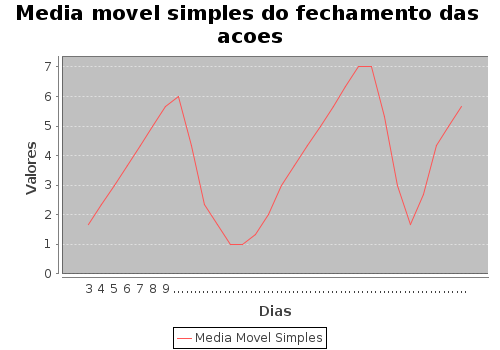
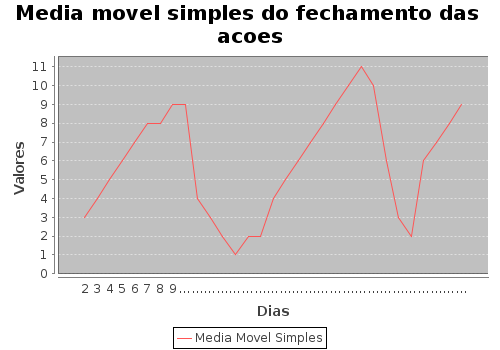
Gera Interface com abas, tabela e gráficos

diff --git a/src/main/java/br/com/caelum/argentum/ui/ArgentumUI.java b/src/main/java/br/com/caelum/argentum/ui/ArgentumUI.java
@@ -13,11 +13,18 @@ import javax.swing.JFrame;
 import javax.swing.JLabel;
 import javax.swing.JPanel;
 import javax.swing.JScrollPane;
+import javax.swing.JTabbedPane;
 import javax.swing.JTable;
 import javax.swing.SwingConstants;
 import javax.swing.border.LineBorder;
 
+import br.com.caelum.argentum.Candle;
+import br.com.caelum.argentum.CandlestickFacktory;
 import br.com.caelum.argentum.Negocio;
+import br.com.caelum.argentum.SerieTemporal;
+import br.com.caelum.argentum.grafico.GeradorDeGrafico;
+import br.com.caelum.argentum.indicadores.IndicadorFechamento;
+import br.com.caelum.argentum.indicadores.MediaMovelSimples;
 
 public class ArgentumUI {
 
@@ -25,6 +32,7 @@ public class ArgentumUI {
 	private JPanel painelPrincipal;
 	private JTable tabela;
 	private JPanel painelBotoes;
+	private JTabbedPane abas;
 
 	public static void main(String[] args) {
 
@@ -35,6 +43,7 @@ public class ArgentumUI {
 		montaJanela();
 		montaPainelPrincipal();
 		montaTitulo();
+		montaAbas();
 		montaTabelaComScroll();
 		montaPainelBotoes();
 		montaBotaoCarregar();
@@ -42,6 +51,13 @@ public class ArgentumUI {
 		mostraJanela();
 	}
 
+	private void montaAbas(){
+		abas = new JTabbedPane();
+		abas.addTab("Tabela de Negócios", null);
+		abas.addTab("Gráfico", null);
+		painelPrincipal.add(abas);
+	}
+	
 	private void montaPainelBotoes() {
 		painelBotoes = new JPanel(new GridLayout());
 		painelPrincipal.add(painelBotoes, BorderLayout.SOUTH);
@@ -79,9 +95,12 @@ public class ArgentumUI {
 		botaoCarregar.addActionListener(new ActionListener(){
 
 			public void actionPerformed(ActionEvent e) {
-				List<Negocio> negocios = new EscolheXML().escolher();
-				NegociosTableModel ntm = new NegociosTableModel(negocios);
-				tabela.setModel(ntm);
+//				ANTES
+//				List<Negocio> negocios = new EscolheXML().escolher();
+//				NegociosTableModel ntm = new NegociosTableModel(negocios);
+//				tabela.setModel(ntm);
+//				DEPOIS
+				carregarDados();
 			}
 		});
 		painelBotoes.add(botaoCarregar);
@@ -115,6 +134,29 @@ public class ArgentumUI {
 		scroll.getViewport().add(tabela);
 		scroll.setSize(450, 450);
 
-		painelPrincipal.add(scroll, BorderLayout.CENTER);
+//		retirado
+//		painelPrincipal.add(scroll, BorderLayout.CENTER);
+//		adicionado
+		abas.setComponentAt(0, scroll);
+	}
+	
+	private void carregarDados(){
+		List<Negocio> negocios = new EscolheXML().escolher();
+		
+		//atualizaTabela
+		NegociosTableModel ntm = new NegociosTableModel(negocios);
+		this.tabela.setModel(ntm);
+		
+		//geraSerieTemporal
+		CandlestickFacktory candlestickFacktory = new CandlestickFacktory();
+		List<Candle> candles = candlestickFacktory.constroiCandles(negocios);
+		SerieTemporal serie = new SerieTemporal(candles);
+		
+		//mostraGrafico
+		GeradorDeGrafico geradorDeGrafico = new GeradorDeGrafico(serie, 2, serie.getTotal()-1);
+		geradorDeGrafico.criaGrafico("Média Móvel Simples");
+		geradorDeGrafico.plotaIndicador(new MediaMovelSimples(new IndicadorFechamento()));
+		JPanel grafico = geradorDeGrafico.getPanel();
+		this.abas.setComponentAt(1, grafico);
 	}
 }

diff --git a/src/test/java/br/com/caelum/argentum/grafico/TestaGrafico.java b/src/test/java/br/com/caelum/argentum/grafico/TestaGrafico.java
@@ -17,8 +17,8 @@ import br.com.caelum.argentum.indicadores.MediaMovelSimples;
 public class TestaGrafico {
 
 	public static void main(String[] args) throws FileNotFoundException, IOException {
-		SerieTemporal serie = criaSerie(1,2,3,4,5);
-		GeradorDeGrafico g = new GeradorDeGrafico(serie, 3, 32);
+		SerieTemporal serie = criaSerie(1,2,3,4,5,6,7,8,8,9,9,4,3,2,1,2,2,4,5,6,7,8,9,10,11,10,6,3,2,6,7,8,9);
+		GeradorDeGrafico g = new GeradorDeGrafico(serie, 2, serie.getTotal()-1);
 		g.criaGrafico("Media movel simples do fechamento das acoes");
 		g.plotaIndicador(new MediaMovelSimples(new IndicadorFechamento()));
 		g.salvar(new FileOutputStream("grafico.png"));
